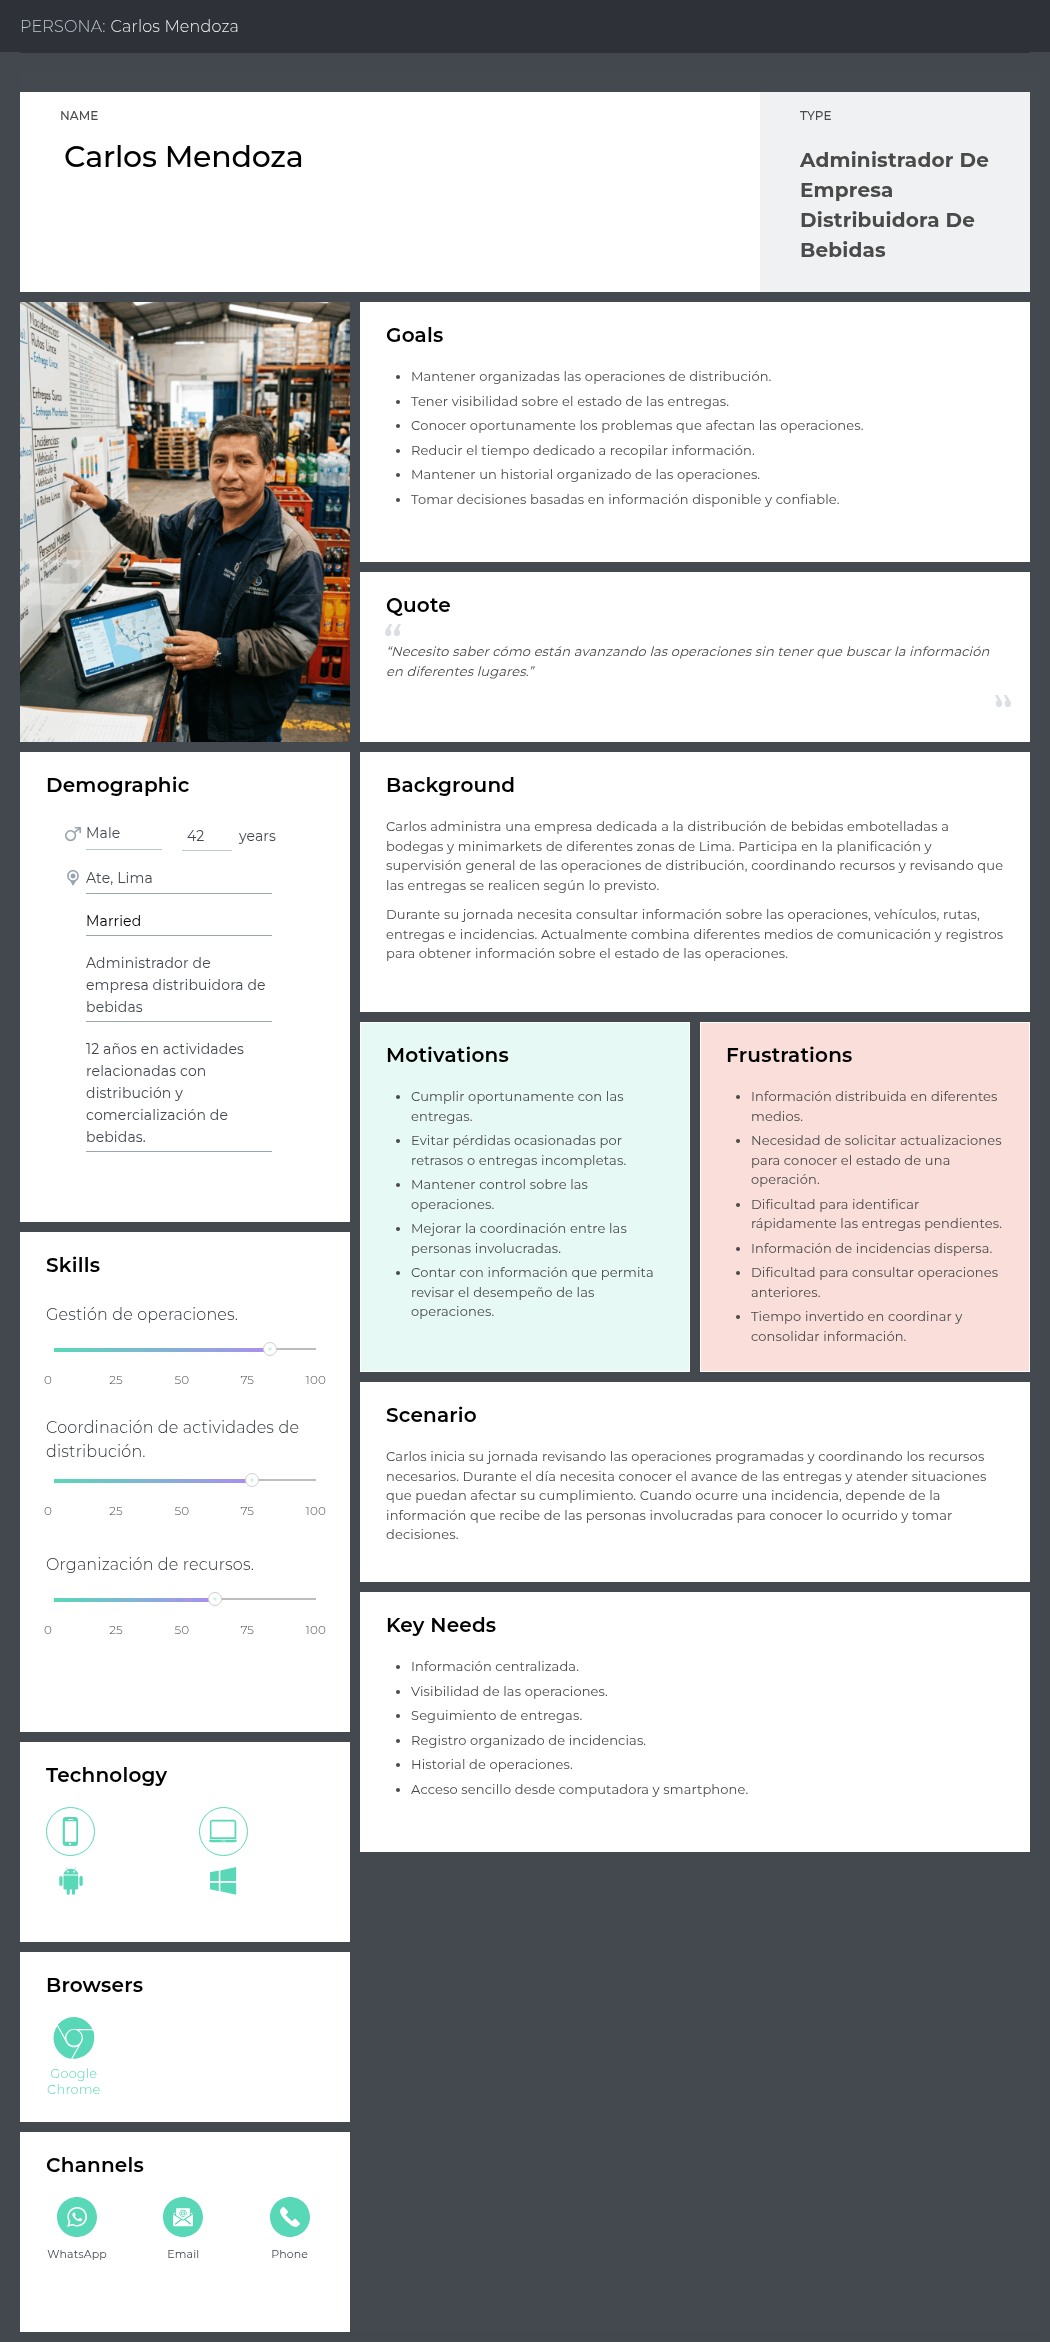
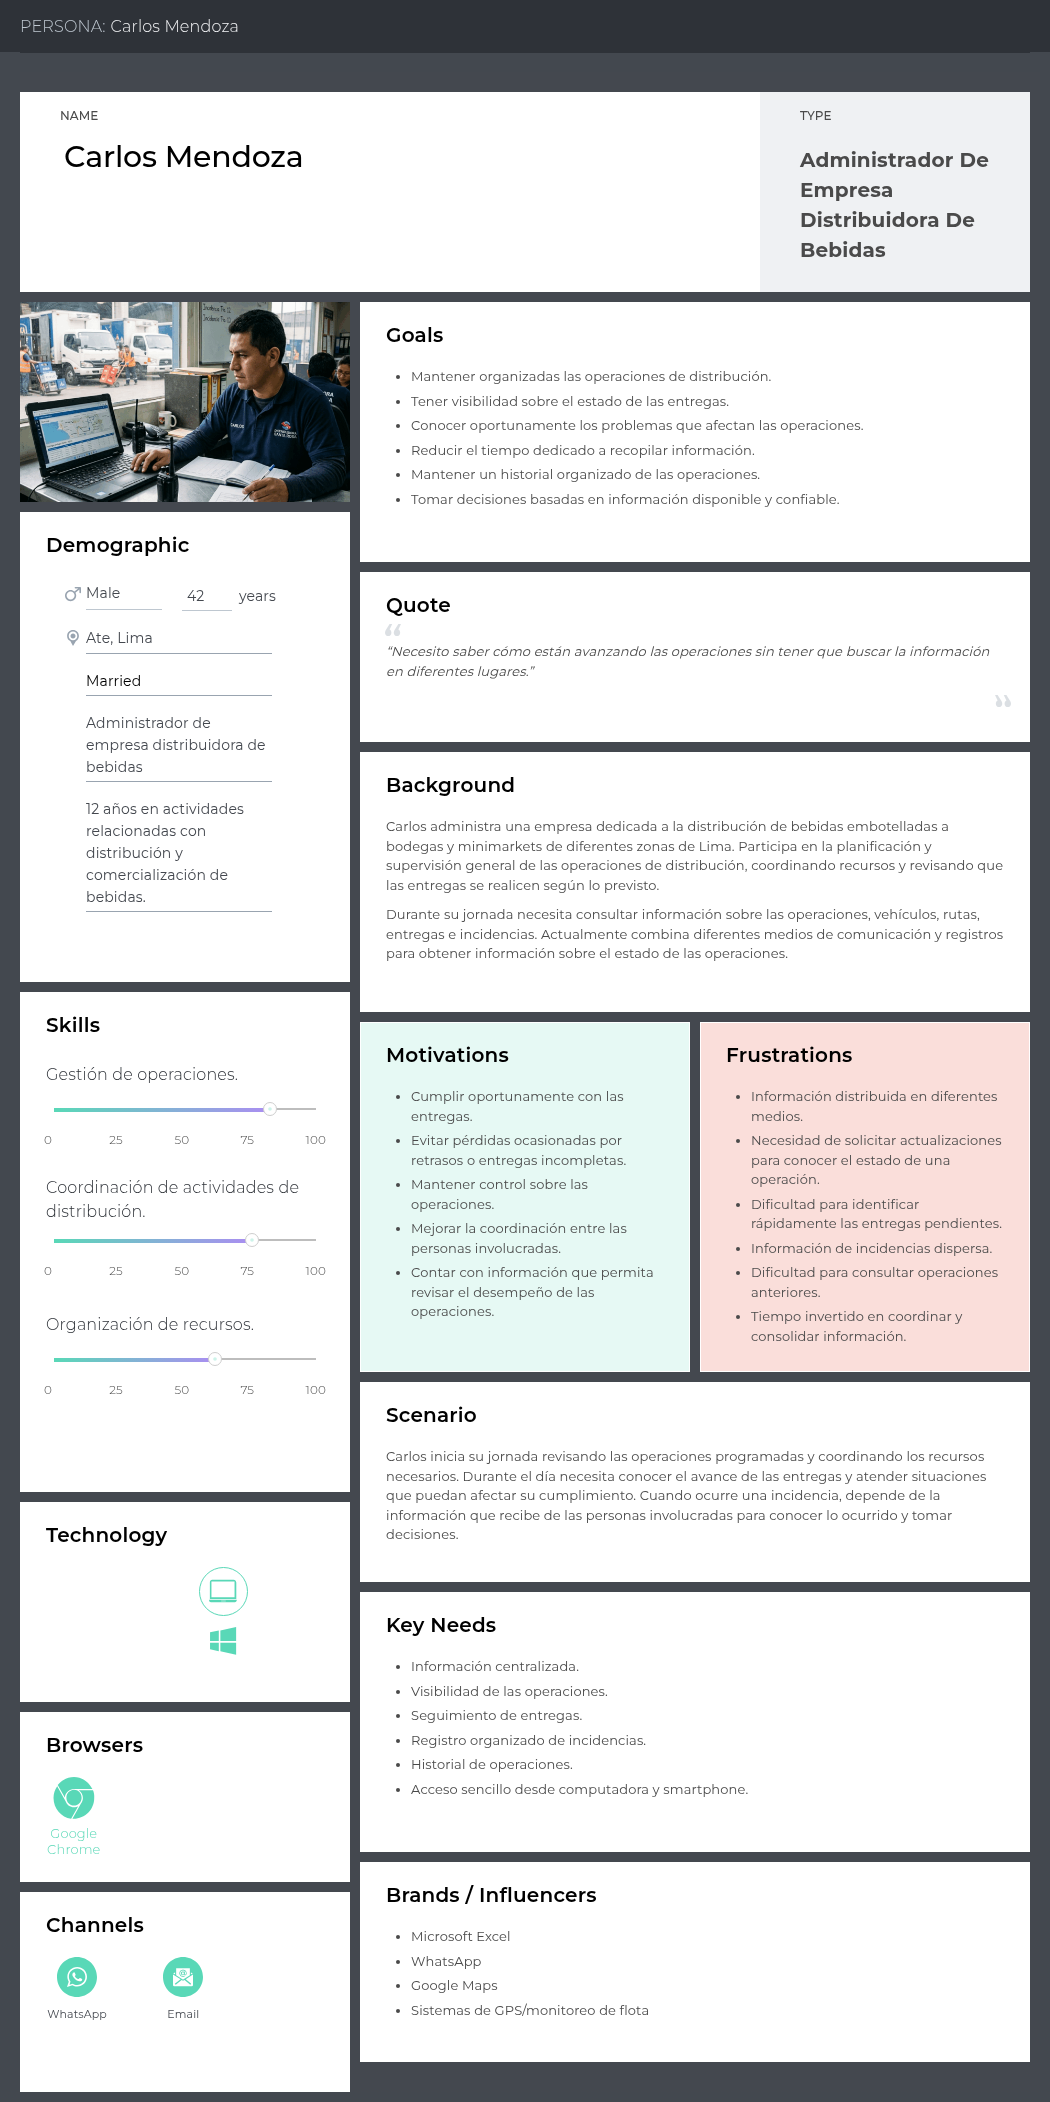
feat: update chapter 2

diff --git a/README.md b/README.md
@@ -1518,35 +1518,25 @@ Las Technical Stories representan los requisitos técnicos necesarios para imple
 <a id="32-impact-mapping"></a>
 ## 3.2. Impact Mapping.
 
-El Impact Mapping relaciona los objetivos de negocio de CodeCrafters con el comportamiento que se espera de cada User Persona y con las User Stories que lo hacen posible. Se elaboró un mapa por segmento en UXPressia. Cada mapa se lee de izquierda a derecha: **Business Goal** SMART, **Persona** que debe cambiar su comportamiento, **Impact** esperado, **Deliverable** que lo habilita y **User Stories** que lo implementan.
+El Impact Map de BottleTrack consolida en un único artefacto los objetivos de negocio y la contribución de los tres segmentos objetivo identificados durante el proceso de Needfinding. A diferencia de los mapas desarrollados inicialmente de manera independiente, esta versión permite visualizar de forma integral cómo las necesidades y comportamientos de los diferentes usuarios contribuyen al logro de los objetivos del producto.
+Los Business Goals fueron formulados bajo el criterio SMART, incorporando métricas y horizontes temporales que permiten determinar objetivamente el cumplimiento de los resultados esperados. A partir de estos objetivos se identificaron los tres actores principales: Carlos Mendoza, representante del segmento de empresas distribuidoras; Luis Torres, representante del segmento de supervisores o encargados de flota; y María Fernández, representante del segmento de bodegas y minimarkets.
+Los Impacts representan los cambios de comportamiento o resultados que se espera generar en cada persona como consecuencia del uso de BottleTrack. Estos impactos se relacionan con la necesidad de centralizar información, mejorar la visibilidad de las operaciones, reducir el seguimiento manual, gestionar incidencias y disponer de información actualizada sobre las entregas.
+Posteriormente, los impactos se traducen en Deliverables, correspondientes a capacidades funcionales de alto nivel de BottleTrack, como la gestión de operaciones, monitoreo, gestión de entregas y gestión de incidencias. Finalmente, cada Deliverable se descompone en User Stories, permitiendo establecer trazabilidad entre los objetivos estratégicos del producto, las necesidades de los usuarios y los requisitos funcionales que serán incorporados al Product Backlog.
+De esta manera, el Impact Map establece una relación directa entre valor de negocio, comportamiento esperado de los usuarios y funcionalidades del producto, facilitando la priorización de los requisitos y manteniendo la trazabilidad entre el proceso de UX Research y la especificación de requisitos.
 
 | Persona | Business Goal (SMART) | User Stories principales |
 | :------ | :-------------------- | :----------------------- |
-| Carlos Mendoza | Alcanzar que al menos el 80 % de las operaciones de transporte de las empresas piloto sean registradas y consultables en BottleTrack durante los primeros 6 meses de operación. | US16, US19, US10, US11 |
-| Carlos Mendoza | Reducir en al menos 25 % el tiempo promedio dedicado a recopilar información sobre el estado de las operaciones de transporte al finalizar los primeros 6 meses de uso. | US34, US35, US36, US37 |
-| Luis Torres | Lograr que al menos el 80 % de las operaciones planificadas en las empresas piloto cuenten con vehículo, responsable y puntos de entrega registrados en BottleTrack durante los primeros 6 meses de operación. | US16, US17, US18, US23, US24 |
-| Luis Torres | Conseguir que al menos el 80 % de las incidencias reportadas durante las operaciones piloto queden registradas y asociadas con su operación durante los primeros 6 meses de uso. | US30, US31, US32, US33 |
-| María Fernández | Lograr que al menos el 75 % de las entregas realizadas a establecimientos piloto cuenten con información de estado consultable durante los primeros 6 meses de operación. | US46, US26, US27 |
-| María Fernández | Conseguir que al menos el 80 % de los problemas identificados en las entregas de establecimientos piloto sean comunicados y queden registrados durante los primeros 6 meses de operación. | US47, US30, US31 |
+| Carlos Mendoza | Lograr que al menos el 80% de las operaciones de transporte de las empresas piloto sean registradas y consultables en BottleTrack durante los primeros 6 meses de operación. | US16, US19, US34, US35 |
+| Carlos Mendoza | Reducir en al menos 25% el tiempo promedio dedicado por administradores y supervisores a recopilar información sobre el estado de las operaciones durante los primeros 6 meses de operación. | US36, US37 |
+| Luis Torres | Lograr que al menos el 80% de las operaciones de transporte de las empresas piloto sean registradas y consultables en BottleTrack durante los primeros 6 meses de operación. | US16, US17, US18, US23, US24, US25 |
+| Luis Torres | Reducir en al menos 25% el tiempo promedio dedicado por administradores y supervisores a recopilar información sobre el estado de las operaciones durante los primeros 6 meses de operación. | US34, US35 |
+| Luis Torres | Lograr que al menos el 80% de las incidencias identificadas durante las operaciones piloto sean registradas y cuenten con seguimiento hasta su resolución durante los primeros 6 meses de operación. | US30, US31, US32, US33 |
+| María Fernández | Lograr que al menos el 75% de las entregas realizadas en los establecimientos piloto cuenten con información de estado consultable durante los primeros 6 meses de operación. | US26, US27, US30, US31, US32, US33 |
 
-Los objetivos coinciden con los indicadores de éxito del Problem Statement de la sección 1.2.2.1, de modo que cada User Story del backlog puede rastrearse hasta un resultado de negocio medible.
-#### User Persona 1: Carlos Mendoza
 
-<img src="img/chapter3/impact-map-segmento-1.jpeg" alt="Impact Map - Segmento 1">
+<img src="img/chapter3/impact-map.jpeg" alt="Impact Map">
 
-Ver en UXPressia: https://uxpressia.com/w/v8FzI/i/ewgWb
-
-#### User Persona 2: Luis Torres
-
-<img src="img/chapter3/impact-map-segmento-2.jpeg" alt="Impact Map - Segmento 2">
-
-Ver en UXPressia: https://uxpressia.com/w/v8FzI/i/kjQEJ
-
-#### User Persona 3: María Fernández
-
-<img src="img/chapter3/impact-map-segmento-3.jpeg" alt="Impact Map - Segmento 3">
-
-Ver en UXPressia: https://uxpressia.com/w/v8FzI/i/1v4vF
+Ver en UXPressia: https://uxpressia.com/w/v8FzI/i/ewgWb?tagId=cK6vk
 
 <a id="33-product-backlog"></a>
 ## 3.3. Product Backlog
